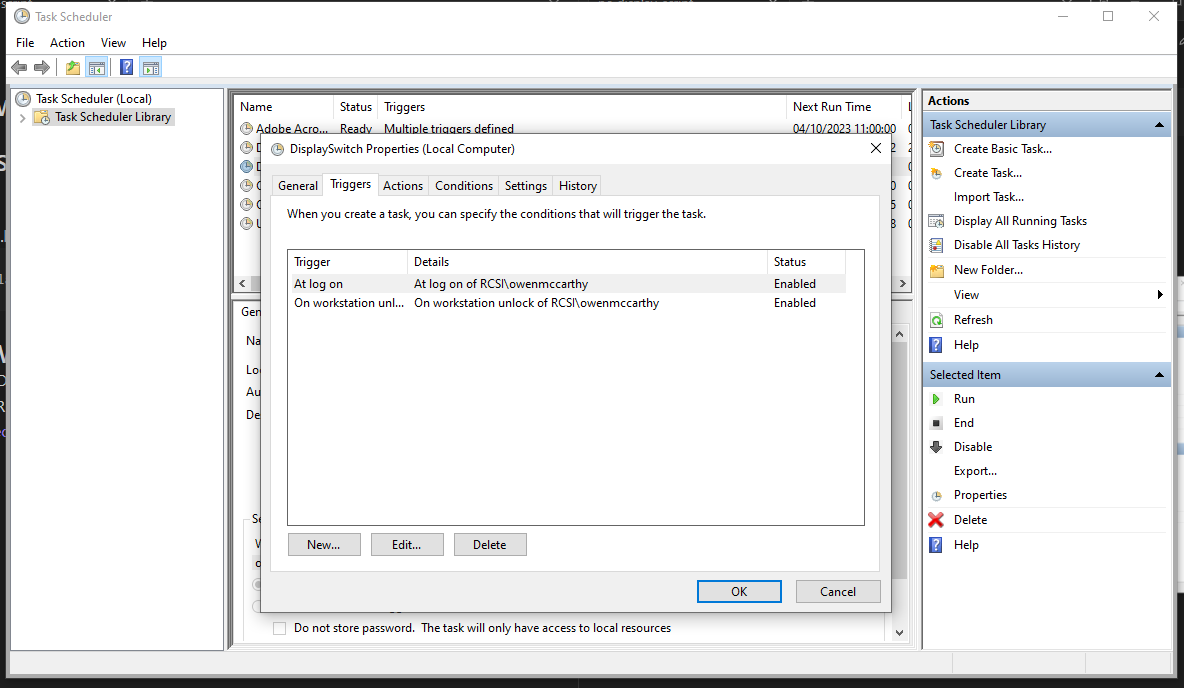
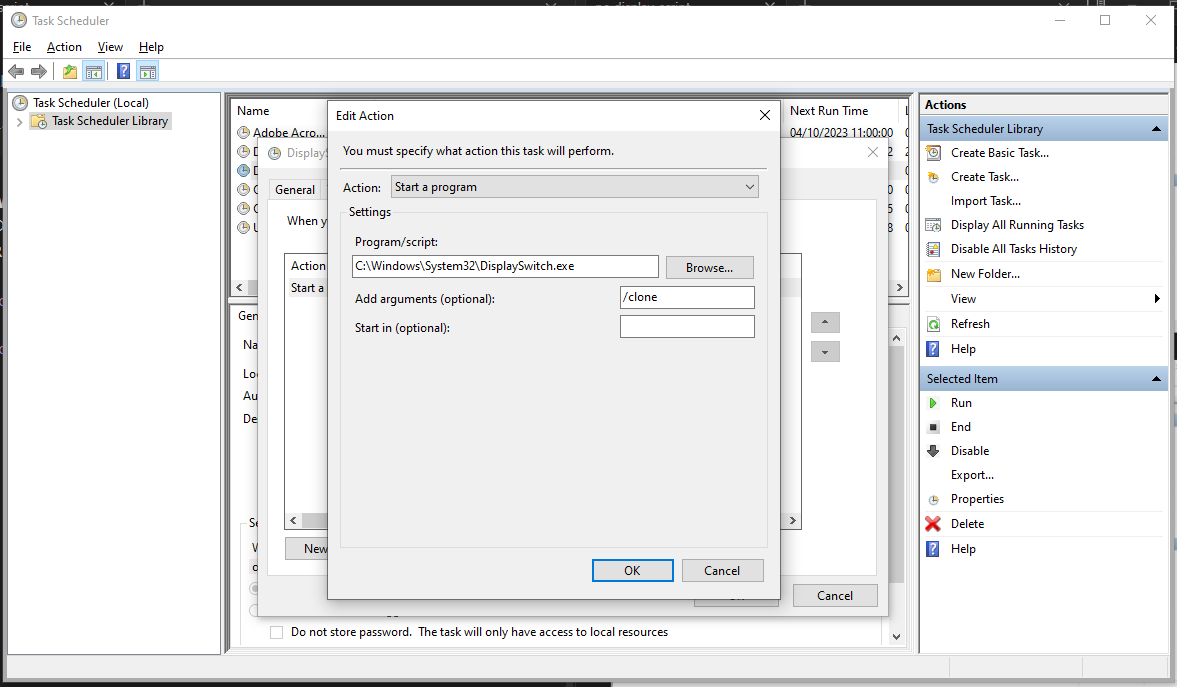
nothing

Changed region(s): [[0.0, 0.0, 1.0, 1.0]]

diff --git a/TeamDocs/1. Issue Resolutions/UC-Engine_IP-Address-Changed.md b/TeamDocs/1. Issue Resolutions/UC-Engine_IP-Address-Changed.md
@@ -6,6 +6,9 @@ tags: issue
 
 # UC Engine IP Address Changed
 
+> [!CAUTION]
+> XiO Cloud settings take precedence over local settings. [XiO Cloud Help](../../Crestron/1.%20OLH-Links.md#XiO%20Cloud)
+
 #### Description
 >In a flex system, the Mercury Touchpanel needs the IP address of the UC-Engine that it is connected to. The UC-Engine does not need to know the IP of the Mercury device. 
 >
@@ -13,10 +16,7 @@ tags: issue
 
 ---
 
-### XiO Cloud Resolution:
-
-> [!CAUTION]
-> XiO Cloud settings take precedence over local settings. [XiO Cloud Help](../../Crestron/1.%20OLH-Links.md#XiO%20Cloud)
+#### XiO Cloud Resolution:
 
 ```
 - Go to XiO -> Find the UC-Engine -> Note it's IP address from the "Network" dropdown
@@ -29,7 +29,7 @@ tags: issue
 - Save Changes
 ```
 
-### Local Network Resolution:
+#### Local Network Resolution:
 
 ```
 - Find and note IP address of UC-Engine (XiO, Toolbox, any other method)

diff --git a/TeamDocs/1. Issue Resolutions/Automate Win+P.md b/TeamDocs/1. Issue Resolutions/Automate Win+P.md
@@ -1,0 +1,26 @@
+---
+title: Display-Scheduler
+date: 2024-04-10
+tags:
+  - issue
+---
+# Automate Win+P
+
+> [!CAUTION]
+> XiO Cloud settings take precedence over local settings. [XiO Cloud Help](../../Crestron/1.%20OLH-Links.md#XiO%20Cloud)
+
+#### Description
+> Issue Description
+
+---
+
+### Resolution
+```
+- Open Windows Task Scheduler
+- Right Click Task Scheduler Library and select "Create Task"
+- Fill in as follows:
+```
+
+![](../../Archive/Attachments/windows-scheduler-pic1.png)
+![](../../Archive/Attachments/windows-scheduler-pic2.png)
+![](../../Archive/Attachments/windows-scheduler-pic3.png)
